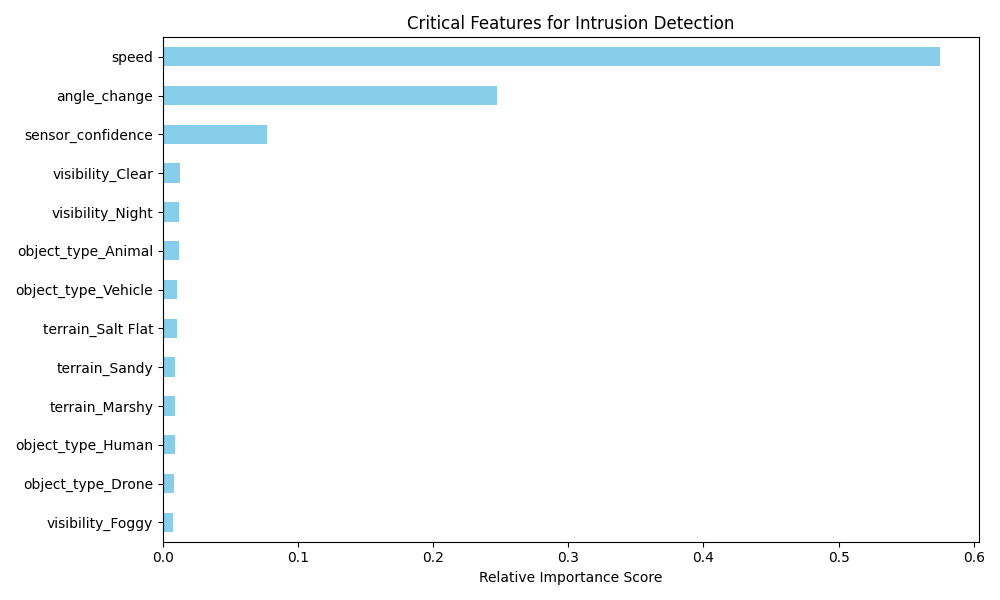
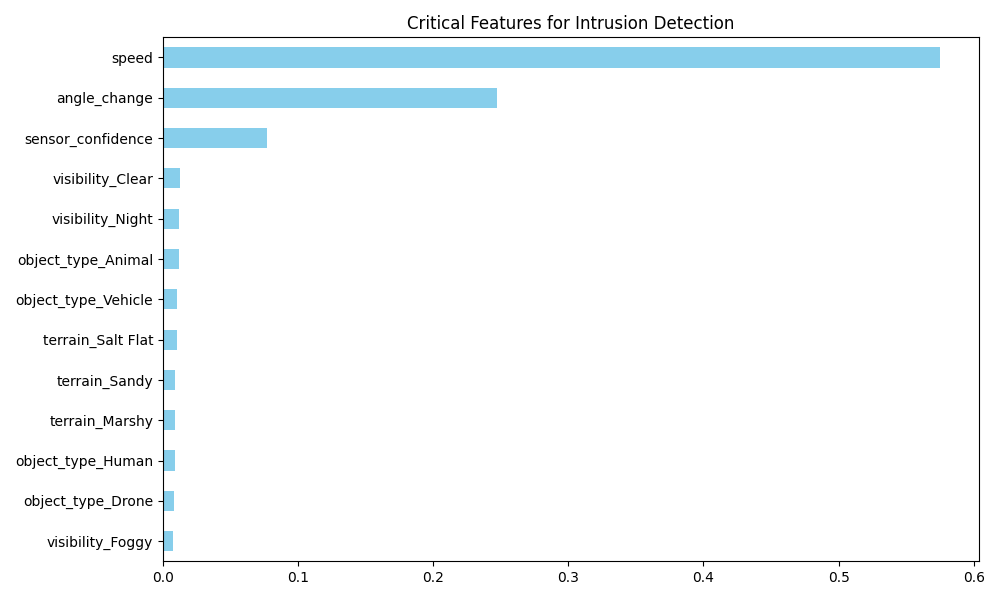
Fix scoping errors and implement threat-score decision intelligence

diff --git a/src/train_model.py b/src/train_model.py
@@ -10,6 +10,7 @@ from sklearn.pipeline import Pipeline
 from sklearn.preprocessing import OneHotEncoder, StandardScaler
 from sklearn.model_selection import train_test_split, cross_val_score # Added cross_val_score
 
+
 import config
 
 def train_elite_model():
@@ -76,41 +77,64 @@ def train_elite_model():
     # --------------------------------------------------
     # 7. NEW: Feature Importance
     # --------------------------------------------------
-    # 1. Get the trained model from the pipeline
     rf_model = pipeline.named_steps['classifier']
-    
-    # 2. Get feature names after OneHotEncoding
-    # We combine the numeric names with the new categorical names
     cat_encoder = pipeline.named_steps['preprocessor'].transformers_[1][1]
     encoded_cat_names = cat_encoder.get_feature_names_out(categorical_features)
     all_feature_names = numeric_features + list(encoded_cat_names)
 
-    # 3. Create importance series and sort
     importances = rf_model.feature_importances_
     feat_importances = pd.Series(importances, index=all_feature_names).sort_values(ascending=True)
 
-    # 4. Plot
     plt.figure(figsize=(10, 6))
     feat_importances.plot(kind='barh', color='skyblue')
     plt.title("Critical Features for Intrusion Detection")
-    plt.xlabel("Relative Importance Score")
-    
-    # Save to visuals folder
-    importance_path = Path("visuals/feature_importance.png")
     plt.tight_layout()
-    plt.savefig(importance_path)
+    plt.savefig("visuals/feature_importance.png")
     plt.close()
-    print(f"Feature importance plot saved to: {importance_path}")
 
-    # 8. Visualization & Save (Logic remains the same)
+    # --------------------------------------------------
+    # 8. Evaluation & Confusion Matrix
+    # --------------------------------------------------
     y_pred = pipeline.predict(X_test)
+    y_proba = pipeline.predict_proba(X_test)[:, 1]  # Get probability for class 1 (Intrusion)
+    
+    print(f"\n--- Final Results ---")
+    print(f"Train Accuracy : {pipeline.score(X_train, y_train):.3f}")
+    print(f"Test Accuracy  : {pipeline.score(X_test, y_test):.3f}")
+
+    plt.figure(figsize=(8, 6))
     cm = confusion_matrix(y_test, y_pred)
     disp = ConfusionMatrixDisplay(confusion_matrix=cm, display_labels=pipeline.classes_)
     disp.plot(cmap=plt.cm.Blues)
     plt.savefig("visuals/confusion_matrix.png")
-    
+    plt.close()
+
+    # --------------------------------------------------
+    # 9. Threat Score + Decision Intelligence
+    # --------------------------------------------------
+    decision_df = X_test.copy()
+    decision_df["true_label"] = y_test.values
+    decision_df["predicted_label"] = y_pred
+    decision_df["threat_score"] = y_proba
+
+    # Confidence-weighted decision logic
+    decision_df["decision"] = np.where(
+        decision_df["threat_score"] > 0.7, "HIGH_RISK",
+        np.where(decision_df["threat_score"] > 0.4, "MEDIUM_RISK", "LOW_RISK")
+    )
+
+    # Save outputs
+    output_dir = Path("outputs")
+    output_dir.mkdir(exist_ok=True)
+    decision_output_path = output_dir / "decision_output.csv"
+    decision_df.to_csv(decision_output_path, index=False)
+    print(f"Decision intelligence output saved to: {decision_output_path}")
+
+    # --------------------------------------------------
+    # 10. Save model
+    # --------------------------------------------------
     joblib.dump(pipeline, config.model_path())
-    print(f"Model saved successfully.")
+    print(f"Model saved successfully to: {config.model_path()}")
 
 if __name__ == "__main__":
     train_elite_model()
